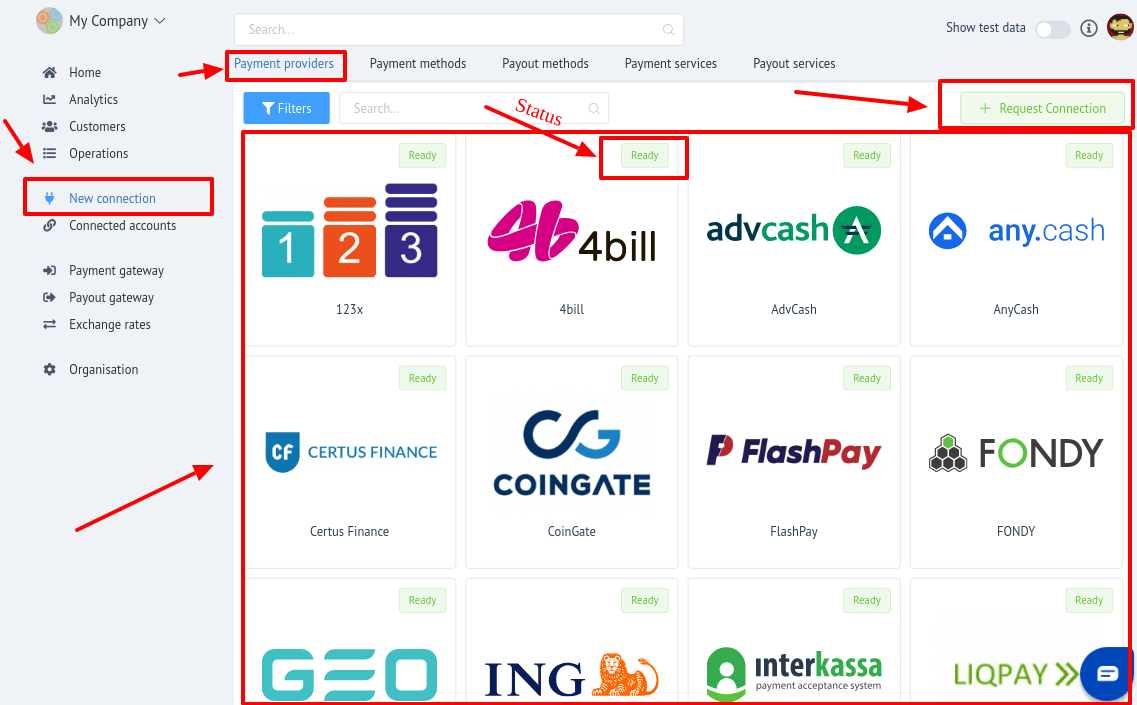
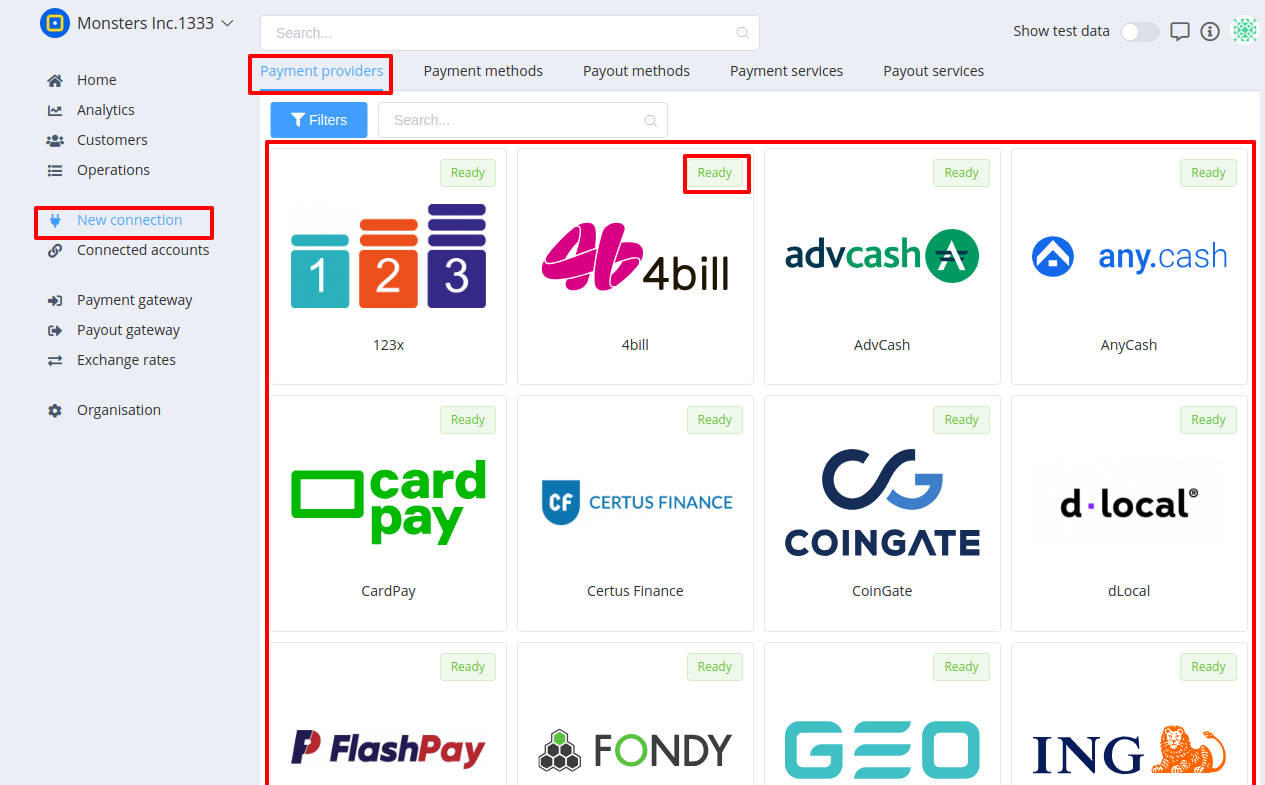
Profile Update, Card Pay add

diff --git a/docs/getting-started/integration/index.md b/docs/getting-started/integration/index.md
@@ -33,40 +33,51 @@ In this case you need to do basic steps before total onboarding.
 ## Payment Providers 
 
 !!! info "Definition"
-    **Payment Provider** - is
+    **Payment Provider** - is an institution that offers online services for accepting electronic payments by a variety of payment methods including credit card, bank-based payments such as direct debit, bank transfer, and real-time bank transfer based on online banking. Typically, they use a software as a service model and form a single payment gateway for their clients (merchants) to multiple payment methods.
+
 Payment Provider  can be in **2 statuses**:
 
 1. **Ready**: means, that this Payment provider has been already implemented to PayСore.io 
 2. **Not Ready**: means, that this Payment provider has  not been implemented to PayСore.io yet.
-    
-!!! tip
-    If You need to implement new Payment provider, use "Request connection" button!
 
-!!! info "Screenshot"
+!!! info
+    
+    - To connect certain provider:
+
+        1. Go to the **```Provider Overview page```** by clicking on it's logo
+        2. Click **```Connect```** button
+        3. Enter the credentials 
+        4. Confirm action
+        
+        !!! tip
+            You can find detailed instructions for each provider at <a href="https://docs.paycore.io/payment-providers/" target="_blank" rel="noopener"> Integration    Manuals </a>.
+
+    - To ask PayCore.io to implement **NEW** Payment provider, use **```Request a connection```** button!
+
+!!! info "Screenshots"
     [![New connection](images/newconn1.png)](images/newconn1.png)
 
-To *```connect```* your provider account or *```get informed```* about **```suppoted features```**, **```methods```**  - go to the Payment Provider Overview page.
-
-!!! info "Screenshot"
     [![New connection](images/newconn2.png)](images/newconn2.png)
 
 
 ## Payment methods
 
 !!! info "Definition"
-    **Payment method** - is
+    **Payment method** - the way that a customer chooses to pay to the merchant. Typical payment methods used in a modern business context include cash, checks, credit or debit cards, money orders, bank transfers and online payment services such as PayPal.
+    
+    <a href="http://www.businessdictionary.com/definition/payment-method.html" target="_blank" rel="noopener">*Read more...*</a>
 
 ## Payout methods
 
 !!! info "Definition"
-    **Payout method** - is
+    **Payout method** - is the way a merchant pay to the customers through.
 
 ## Payment services
 
 !!! info "Definition"
-    **Payment service** - is
+    **Payment service** - is a virtual entity, that means "payment method in view of certain currency"
 
 ## Payout services 
 
 !!! info "Definition"
-    **Payout service** - is
+    **Payout service** - is a virtual entity, that means "payout method in view of certain currency"

diff --git a/docs/getting-started/user-profile/security.md b/docs/getting-started/user-profile/security.md
@@ -100,15 +100,15 @@ This section is intended to inform user about the actions in context of user pro
 
 It register the next type of events:
 
-- **```user:logged_in```** (Logged in)
-- **```user:logged_out```** (Logged out)
-- **```user:login_failed```** (Login failed)
-- **```user.password:reset_requested```** (Requested a password reset)
-- **```user.profile:updated```** (Profile updated)
-- **```user.preferences:updated```** (Preferences updated)
-- **``user.password:changed``** (Password changed)
-- **``user.2fa:enabled``** (2FA enabled)
-- **```user.2fa:disabled```** (2FA disabled)
+- **```user:logged_in```** (*Logged in*)
+- **```user:logged_out```** (*Logged out*)
+- **```user:login_failed```** (*Login failed*)
+- **```user.password:reset_requested```** (*Requested a password reset*)
+- **```user.profile:updated```** (*Profile updated*)
+- **```user.preferences:updated```** (*Preferences updated*)
+- **``user.password:changed``** (*Password changed*)
+- **``user.2fa:enabled``** (*2FA enabled*)
+- **```user.2fa:disabled```** (*2FA disabled*)
 
 !!! tip
     To get more info about certain event - expand it's row!
@@ -120,7 +120,7 @@ Events list contains the next information:
 - IP address
 - Last time accessed
 - Session hash
-- Location (Based on IP)
+- Location (*Based on IP*)
 - Device type
 - Browser
 - OS name

diff --git a/docs/getting-started/user-profile/general.md b/docs/getting-started/user-profile/general.md
@@ -3,12 +3,10 @@
 ## General 
 
 This subsection intended  for setting up your General info and basic preferences of location and data layout.
-It is divided into **3 parts**:
+It is divided into ** the next parts**:
 
 1. Profile
 2. Preferences
-3. Formatting
-
 
 ## Profile
 
@@ -25,11 +23,18 @@ Here You can add a Profile picture from a file, set  your contact information an
 
 ## Preferences
 
-Here You can:
-
-- [x] Set Interface language for Dashboard 
-- [x] Set your time zone
-- [x] Choose data layout preference (Item per page)
+Here You can configure:
+- [x] Localization
+    - Set Interface language for Dashboard 
+    - Set your time zone
+- [x] Amounts formatting
+    - Precision
+    - Decimal separator
+-  [x] Date & Time formatting
+    - Date format type
+    - Use relative time (*eg. 44 minutes ago*)
+- [x] Data layout
+    - Choose data layout preference (*Item per page*)
 
 !!! tip
     **Don't forget to Save changes to confirm your choice!**
@@ -37,12 +42,6 @@ Here You can:
 !!! info "General: Preferences"
     [![General](../images/general2.png)](../images/general2.png)
 
-## Formatting
 
-In this section You can configure data formatting preferences. 
-
-In particular:
-
-- Amounts Precision
-- Thousands separator
-- Date & time format
+!!! tip
+    **Don`t forget to save changes!**

diff --git a/docs/payment-providers/cardpay/connect-manual.md b/docs/payment-providers/cardpay/connect-manual.md
@@ -4,16 +4,23 @@
 
 ## Introduction
 
-Here You can find  instructions for setting up **CardPay**  account.
+Here You can find  instructions for setting up <a href="https://cardpay.com/ma/" target="_blank" rel="noopener">**CardPay**  account</a>.
 
 ## Setup account
 
-#### Step 1: 
-
+#### Step 1: Contact with CardPay Support Manager
 
 
 #### Step 2: Get required credentials
 
+- [x] Terminal code
+- [x] Terminal password
+- [x] Callback secret
+
+
+#### Step 3: Send necessary paramenter yo CardPay
+
+- [x] Callback URL : ```https://psp-ext.paycore.io/cardpay/callback```
 
 !!! success
     You have configured account!
@@ -25,12 +32,22 @@ Here You can find  instructions for setting up **CardPay**  account.
 
 #### Step 1: Copy required credentials
 
+- [x] Terminal code
+- [x] Terminal password
+- [x] Callback secret
 
 #### Step 2: Enter credentials
 
 !!! tip
     Press **```Connect```** at CardPay **```Provider Overview page```** in **```New connection```** section to open Connection form!
 
+#### Step 3: Set up additional parameters 
+
+- [x] Currencies
+- [x] Test mode
+
+!!! note
+    These parameters are set according to your Merchant account type and it's available currencies!
 
 !!! tip
     **Don't forget to Save changes to confirm connection!**

diff --git a/docs/getting-started/user-profile/index.md b/docs/getting-started/user-profile/index.md
@@ -5,7 +5,7 @@
 
 - [x] Configure your personal info
 - [x] Set general preferences
-- [x] Set up your contact data (such as website, email, phone number, etc.)
+- [x] Set up your contact data (*such as website, email, phone number, etc.*)
 - [x] Manage your application access
 
 Structurally User profile consists of:
@@ -13,7 +13,6 @@ Structurally User profile consists of:
 -  [General settings](general)
     - Profile
     - Preferences
-    - Formatting
 -  [Security settings](security)
     - Password management
     - Two-Factors Authentication

diff --git a/docs/payment-providers/__template/connect-manual.md b/docs/payment-providers/__template/connect-manual.md
@@ -36,6 +36,14 @@ Here You can find  instructions for setting up **NAME**  account.
     Press **```Connect```** at NAME **```Provider Overview page```** in **```New connection```** section to open Connection form!
 
 
+#### Step 3: Set up additional parameters 
+
+- [x] Currencies
+- [x] Test mode
+
+!!! note
+    These parameters are set according to your Merchant account type and it's available currencies!
+
 !!! tip
     **Don't forget to Save changes to confirm connection!**
 
